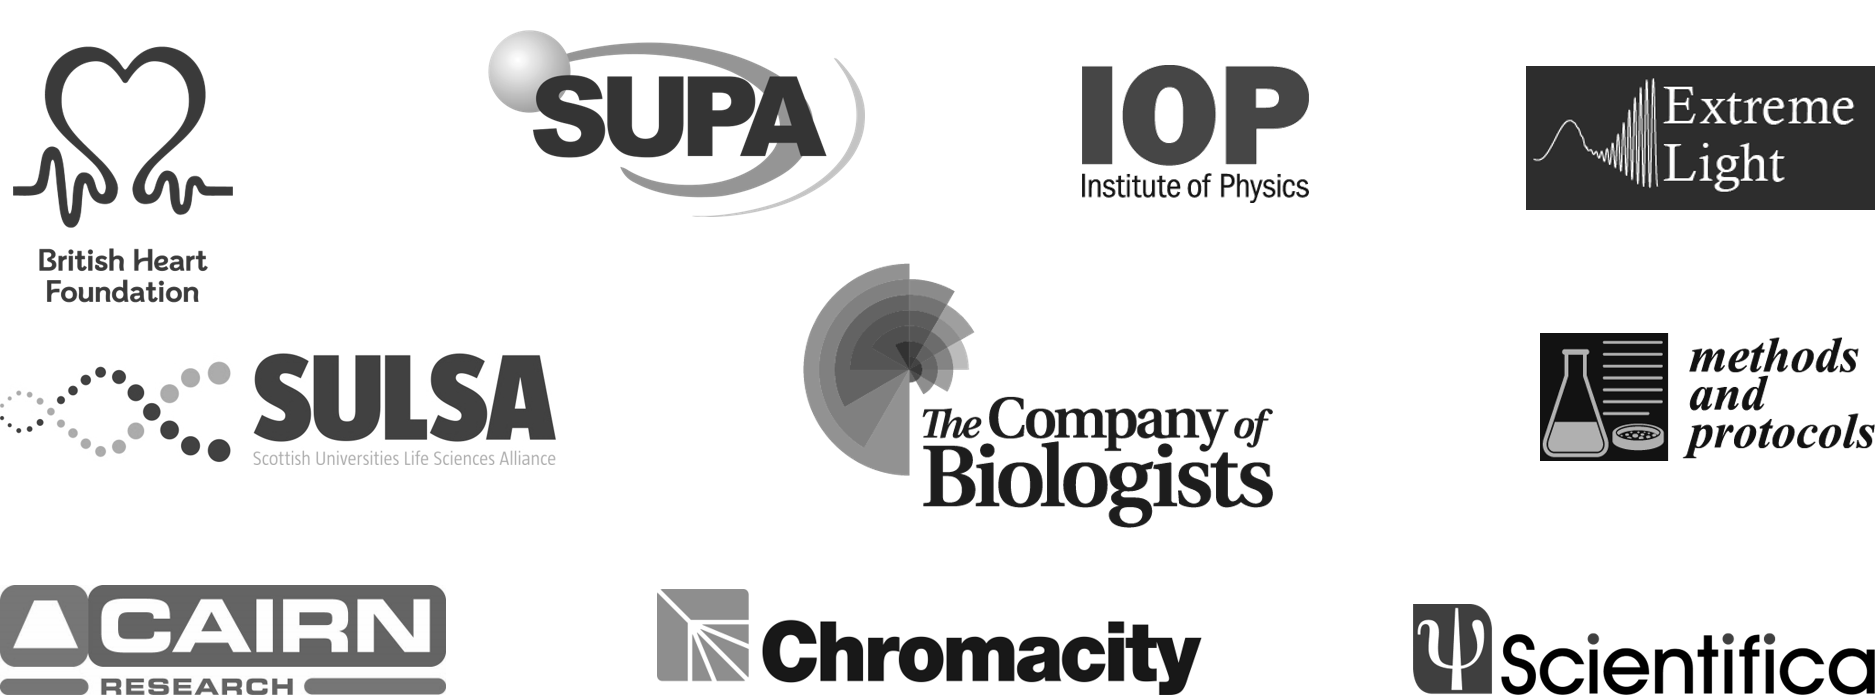
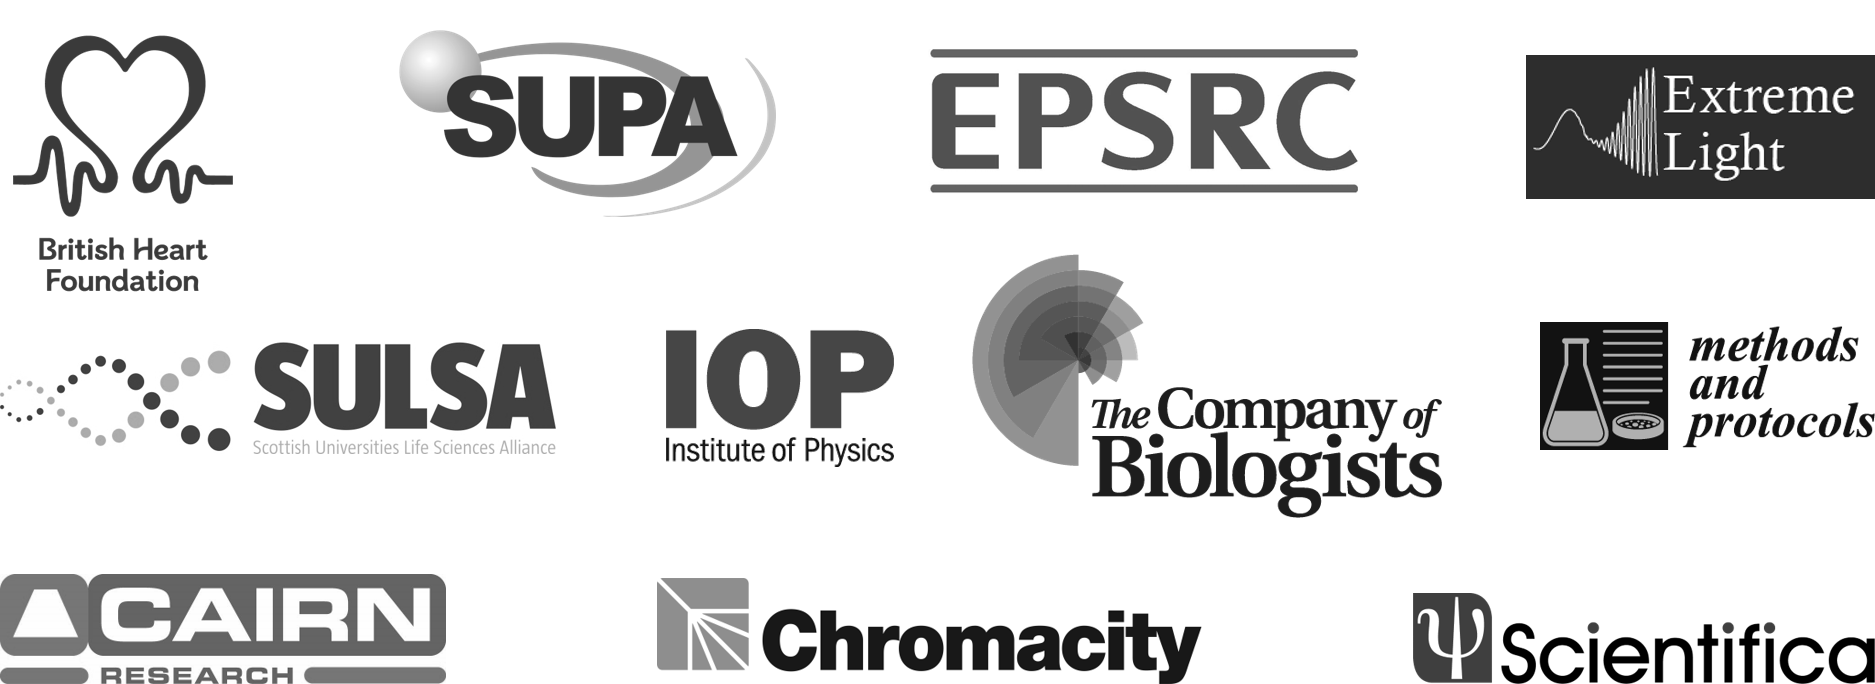
update webinar

diff --git a/index.html b/index.html
@@ -46,14 +46,13 @@
         </tr>
     </table>
 
-<h1>COVID-19 update</h1>
+<h1>NOTICE2020-webinar: Friday 28th of August</h1>
 
-Due to the ongoing COVID-19 pandemic, we have taken the decision to postpone our NOTICE2020 workshop for one year. NOTICE will now take place on the 26th and 27th of August 2021 in Glasgow.
-<p>
-In the meantime, to bridge the long wait, we are excited to announce a NOTICE online symposium. Join us on Friday 28th of August 2020 for three exciting talks from our North American keynote speakers:
+<p> We are excited to announce the NOTICE2020 webinar! On Friday August 28th join us for three fantastic talks by Chris Xu, Gil Bub and Ahmed Abdelfattah. 
+You can register for free via our <a target="_blank" href="https://www.eventbrite.co.uk/e/notice2020-webinar-tickets-115527320325">Eventbrite page</a>. 
+Join us on Friday 28th of August 2020 for three exciting talks from our North American keynote speakers:
 </p>
 
-<h4>NOTICE2020 online symposium Friday 28th of August 2020</h4>
 
  <table class="plenary">
         <tr>
@@ -119,9 +118,13 @@ In the meantime, to bridge the long wait, we are excited to announce a NOTICE on
         </tr>
     </table>
 
+The virtual meeting will take place entirely on the online platform “Zoom”. Participation to the event is free but requires registration.
 
 
-The virtual meeting will take place entirely on the online platform “Zoom”. Participation to the event will be free to attend yet require registration. More information will follow soon!
+<h1>COVID-19 update</h1>
+
+Due to the ongoing COVID-19 pandemic, we have taken the decision to postpone our NOTICE2020 workshop for one year. NOTICE will now take place on the 26th and 27th of August 2021 in Glasgow.
+<p> In the meantime, to bridge the long wait, we are excited to announce a NOTICE online symposium. Stay posted for more information to follow soon. </p>
 
     <h2>Welcome to NOTICE Glasgow 2021</h2>
     <p>
@@ -178,11 +181,12 @@ The virtual meeting will take place entirely on the online platform “Zoom”. 
 
  <h2>Funders and sponsors</h2>
 <p>
-	NOTICE is proudly funded by the <a target="_blank" href="https://www.bhf.org.uk/">British Heart Foundation</a>, 
-<a target="_blank" href="https://www.supa.ac.uk/">Scottish Universities Physics Alliance</a>,
-<a target="_blank" href="http://www.iop.org/activity/groups/subject/opt/#gref">Institute of Physics Optical Group</a>,
+NOTICE is proudly funded by the <a target="_blank" href="https://www.bhf.org.uk/">British Heart Foundation</a>, 
+<a target="_blank" href="https://www.supa.ac.uk/">Scottish Universities Physics Alliance (SUPA)</a>,
+<a target="_blank" href="https://epsrc.ukri.org/">The Engineering and Physical Sciences Research Council (EPSRC)</a>,
 <a target="_blank" href="http://www.physics.gla.ac.uk/XtremeLight/">Extreme Light</a>,	
 <a target="_blank" href="https://www.sulsa.ac.uk/">Scottish Universities Life Sciences Alliance</a>, 
+<a target="_blank" href="http://www.iop.org/activity/groups/subject/opt/#gref">Institute of Physics (IOP) Optical Group</a>,
 and <a target="_blank" href="https://www.biologists.com/">the Company of Biologists</a>. 
 
 We are further grateful to our industrial sponsors: 

diff --git a/abstracts/index.html b/abstracts/index.html
@@ -51,12 +51,13 @@ Abstract submission will open in due course.
 
  <h2>Funders and sponsors</h2>
 <p>
-	NOTICE is proudly funded by the <a target="_blank" href="https://www.bhf.org.uk/">British Heart Foundation</a>, 
-<a target="_blank" href="https://www.supa.ac.uk/">Scottish Universities Physics Alliance</a>,
-<a target="_blank" href="http://www.iop.org/activity/groups/subject/opt/#gref">Institute of Physics Optical Group</a>,
+NOTICE is proudly funded by the <a target="_blank" href="https://www.bhf.org.uk/">British Heart Foundation</a>, 
+<a target="_blank" href="https://www.supa.ac.uk/">Scottish Universities Physics Alliance (SUPA)</a>,
+<a target="_blank" href="https://epsrc.ukri.org/">The Engineering and Physical Sciences Research Council (EPSRC)</a>,
 <a target="_blank" href="http://www.physics.gla.ac.uk/XtremeLight/">Extreme Light</a>,	
 <a target="_blank" href="https://www.sulsa.ac.uk/">Scottish Universities Life Sciences Alliance</a>, 
-and <a target="_blank" href="https://www.biologists.com/">the Company of Biologists</a>. 
+<a target="_blank" href="http://www.iop.org/activity/groups/subject/opt/#gref">Institute of Physics (IOP) Optical Group</a>,
+and <a target="_blank" href="https://www.biologists.com/">the Company of Biologists</a>.  
 
 We are further grateful to our industrial sponsors: 
 	<a target="_blank" href="https://www.cairn-research.co.uk/">Cairn Research</a>,

diff --git a/program/index.html b/program/index.html
@@ -51,11 +51,12 @@ The conference program will be anounced in due course.
 
  <h2>Funders and sponsors</h2>
 <p>
-	NOTICE is proudly funded by the <a target="_blank" href="https://www.bhf.org.uk/">British Heart Foundation</a>, 
-<a target="_blank" href="https://www.supa.ac.uk/">Scottish Universities Physics Alliance</a>,
-<a target="_blank" href="http://www.iop.org/activity/groups/subject/opt/#gref">Institute of Physics Optical Group</a>,
+NOTICE is proudly funded by the <a target="_blank" href="https://www.bhf.org.uk/">British Heart Foundation</a>, 
+<a target="_blank" href="https://www.supa.ac.uk/">Scottish Universities Physics Alliance (SUPA)</a>,
+<a target="_blank" href="https://epsrc.ukri.org/">The Engineering and Physical Sciences Research Council (EPSRC)</a>,
 <a target="_blank" href="http://www.physics.gla.ac.uk/XtremeLight/">Extreme Light</a>,	
 <a target="_blank" href="https://www.sulsa.ac.uk/">Scottish Universities Life Sciences Alliance</a>, 
+<a target="_blank" href="http://www.iop.org/activity/groups/subject/opt/#gref">Institute of Physics (IOP) Optical Group</a>,
 and <a target="_blank" href="https://www.biologists.com/">the Company of Biologists</a>. 
 
 We are further grateful to our industrial sponsors: 

diff --git a/speakers/index.html b/speakers/index.html
@@ -53,11 +53,12 @@
 
   <h2>Funders and sponsors</h2>
 <p>
-	NOTICE is proudly funded by the <a target="_blank" href="https://www.bhf.org.uk/">British Heart Foundation</a>, 
-<a target="_blank" href="https://www.supa.ac.uk/">Scottish Universities Physics Alliance</a>,
-<a target="_blank" href="http://www.iop.org/activity/groups/subject/opt/#gref">Institute of Physics Optical Group</a>,
+NOTICE is proudly funded by the <a target="_blank" href="https://www.bhf.org.uk/">British Heart Foundation</a>, 
+<a target="_blank" href="https://www.supa.ac.uk/">Scottish Universities Physics Alliance (SUPA)</a>,
+<a target="_blank" href="https://epsrc.ukri.org/">The Engineering and Physical Sciences Research Council (EPSRC)</a>,
 <a target="_blank" href="http://www.physics.gla.ac.uk/XtremeLight/">Extreme Light</a>,	
 <a target="_blank" href="https://www.sulsa.ac.uk/">Scottish Universities Life Sciences Alliance</a>, 
+<a target="_blank" href="http://www.iop.org/activity/groups/subject/opt/#gref">Institute of Physics (IOP) Optical Group</a>,
 and <a target="_blank" href="https://www.biologists.com/">the Company of Biologists</a>. 
 
 We are further grateful to our industrial sponsors: 

diff --git a/directions/index.html b/directions/index.html
@@ -55,11 +55,12 @@
 
  <h2>Funders and sponsors</h2>
 <p>
-	NOTICE is proudly funded by the <a target="_blank" href="https://www.bhf.org.uk/">British Heart Foundation</a>, 
-<a target="_blank" href="https://www.supa.ac.uk/">Scottish Universities Physics Alliance</a>,
-<a target="_blank" href="http://www.iop.org/activity/groups/subject/opt/#gref">Institute of Physics Optical Group</a>,
+NOTICE is proudly funded by the <a target="_blank" href="https://www.bhf.org.uk/">British Heart Foundation</a>, 
+<a target="_blank" href="https://www.supa.ac.uk/">Scottish Universities Physics Alliance (SUPA)</a>,
+<a target="_blank" href="https://epsrc.ukri.org/">The Engineering and Physical Sciences Research Council (EPSRC)</a>,
 <a target="_blank" href="http://www.physics.gla.ac.uk/XtremeLight/">Extreme Light</a>,	
 <a target="_blank" href="https://www.sulsa.ac.uk/">Scottish Universities Life Sciences Alliance</a>, 
+<a target="_blank" href="http://www.iop.org/activity/groups/subject/opt/#gref">Institute of Physics (IOP) Optical Group</a>,
 and <a target="_blank" href="https://www.biologists.com/">the Company of Biologists</a>. 
 
 We are further grateful to our industrial sponsors: 
